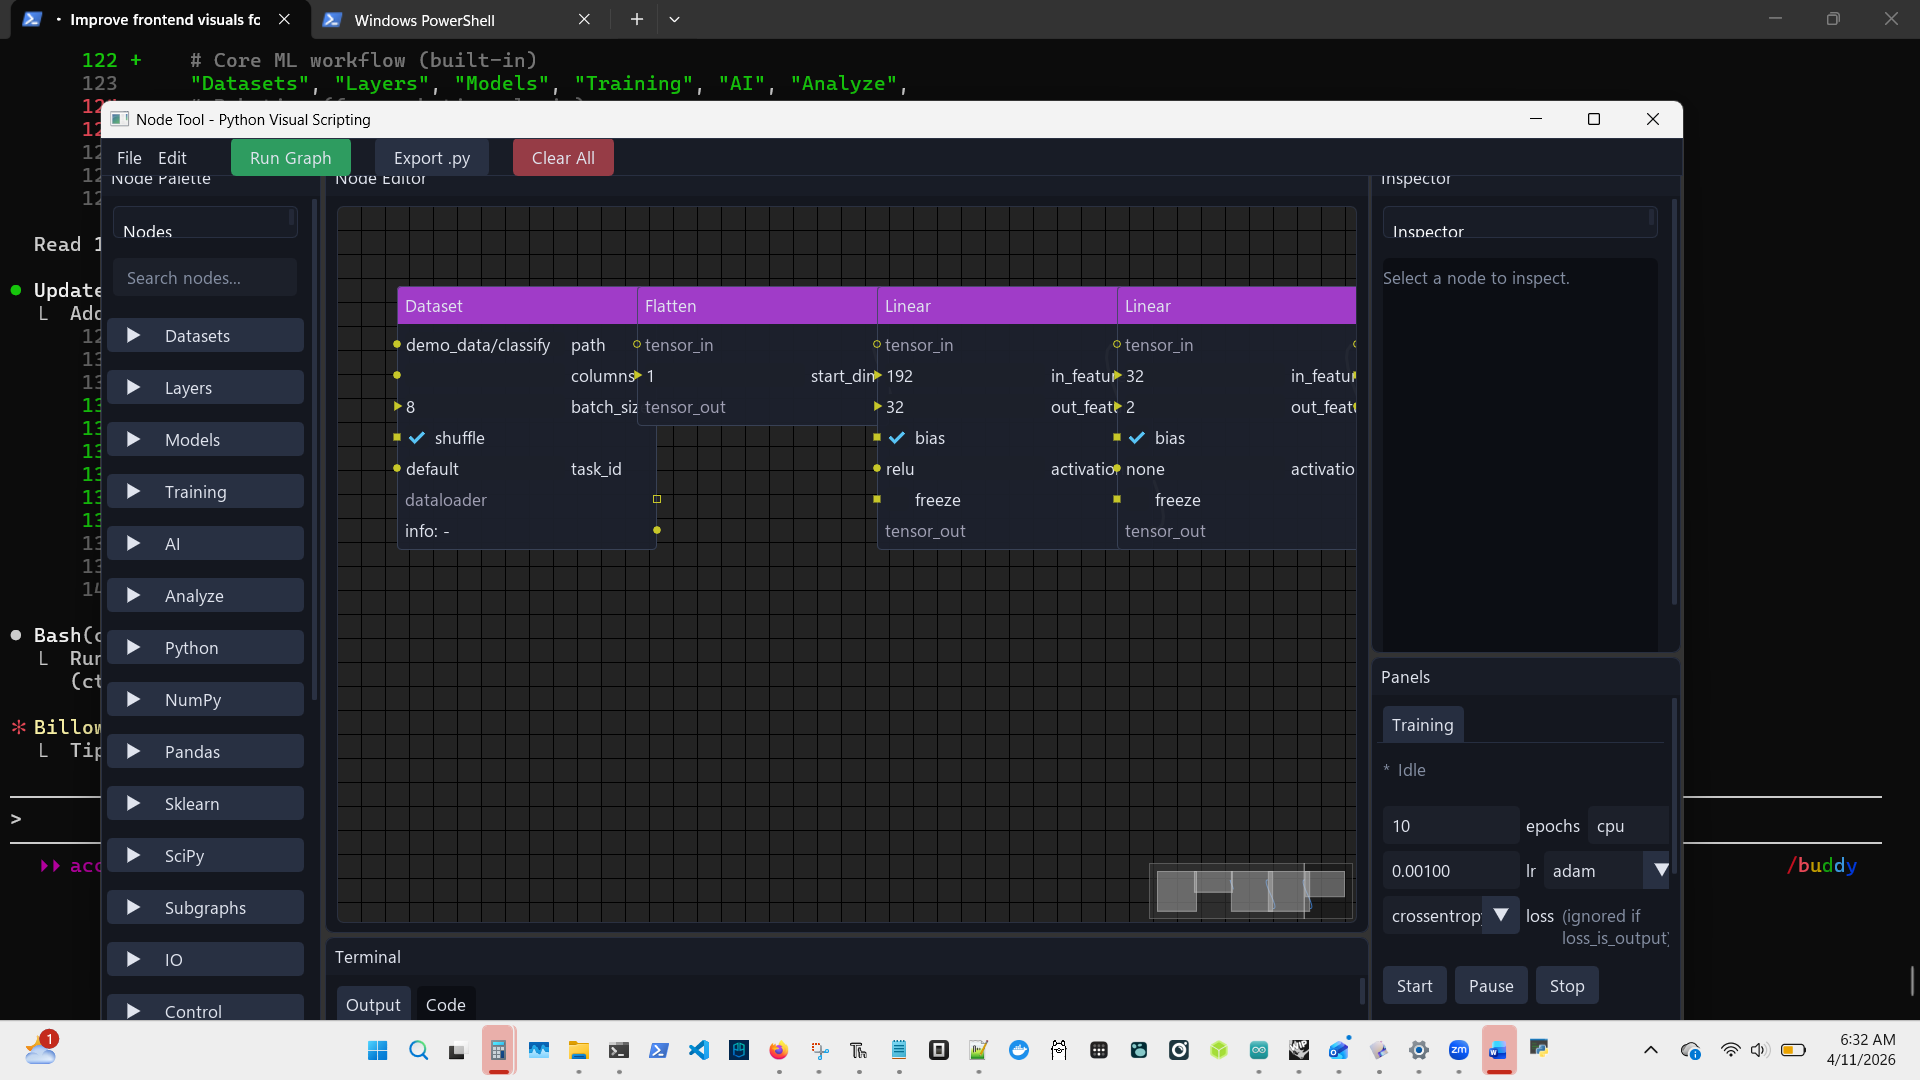
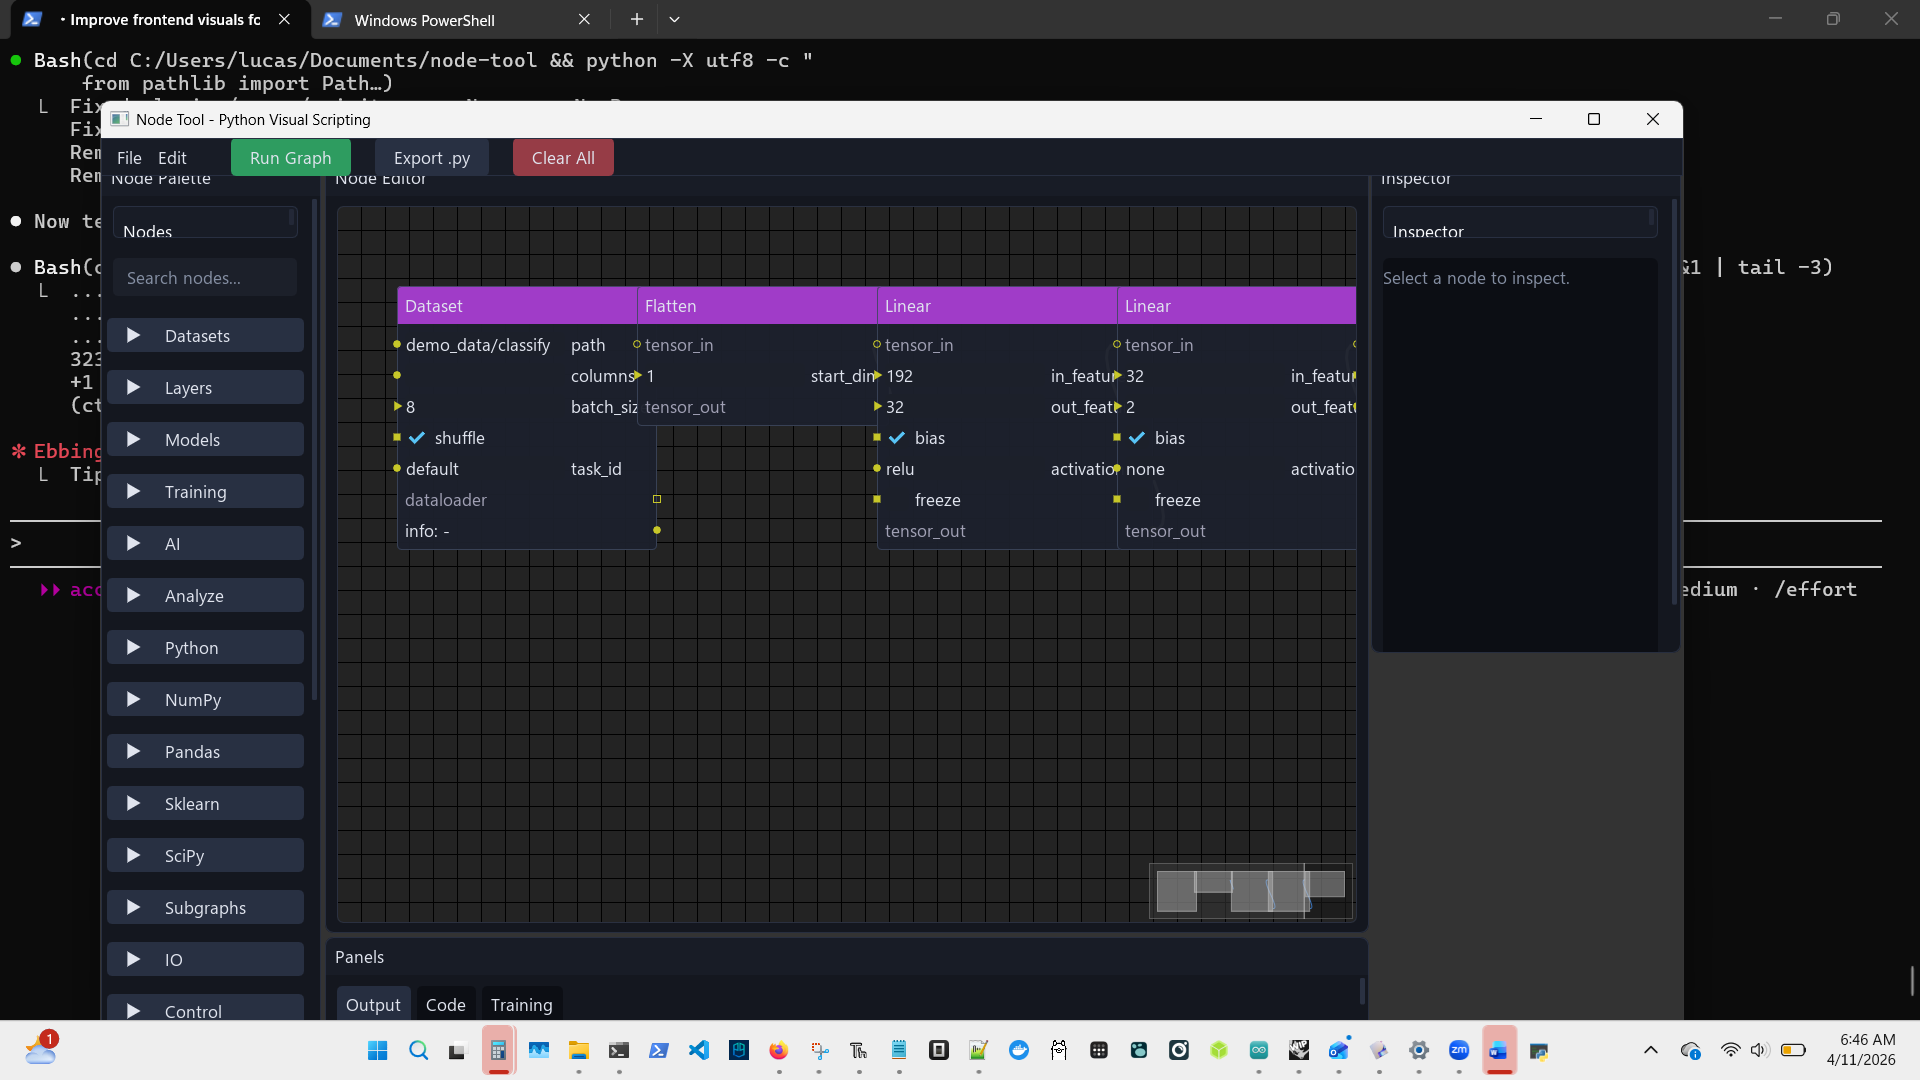
fix: layout restructure — training moves to bottom tab bar, inspector full height
Major layout cleanup addressing user feedback:

1. Training panel moved from cramped right sidebar to the wider bottom
   panel area as a tab alongside Output and Code. Horizontal layout uses
   the full width — epochs/lr/optim/device on one row, buttons + loss on
   the next, loss plot below.

2. Inspector now fills the full right column (was split with training).

3. Plugin panels register as tabs in the bottom panel bar — wider area,
   more room for domain-specific UI (sensor plots, simulation controls).

4. Fixed category name mismatches (Numpy->NumPy, Scipy->SciPy) that
   caused empty palette dropdowns.

5. Plugin categories auto-merge into CATEGORY_ORDER — robotics categories
   (Control, Sensors, Actuators, Signal) now appear in the palette.

diff --git a/gui/mixins/layout.py b/gui/mixins/layout.py
@@ -235,112 +235,40 @@ class LayoutMixin:
             ):
                 pass
 
-        # Inspector window — fills right column above training panel
-        training_h = 380
-        inspector_height = usable_h - training_h - 4
+        # Inspector window — full right column (no more training panel below)
         with dpg.window(
             label="Inspector", tag="InspectorWindow",
-            pos=[inspector_x, MENU_H], width=INSPECTOR_W, height=inspector_height,
+            pos=[inspector_x, MENU_H + 4], width=INSPECTOR_W, height=usable_h,
             no_close=True, no_collapse=True,
         ):
             _section_header("Inspector", self._section_header_theme)
             with dpg.child_window(tag="inspector_content", autosize_x=True,
-                                  height=inspector_height - 70, border=False):
+                                  height=usable_h - 70, border=False):
                 dpg.add_text("Select a node to inspect.", color=list(TEXT_DIM))
 
-        # Training panel window
-        training_y = inspector_height + MENU_H + 4
-        training_h = usable_h - inspector_height - 4
-        with dpg.window(
-            label="Panels", tag="TrainingWindow",
-            pos=[inspector_x, training_y], width=INSPECTOR_W, height=training_h,
-            no_close=True, no_collapse=True,
-        ):
-            dpg.add_tab_bar(tag="panel_tab_bar")
-
-        # Build the Training tab using parent= to avoid deep nesting
-        dpg.add_tab(label="Training", tag="panel_tab_training", parent="panel_tab_bar")
-        hw = (INSPECTOR_W - 36) // 2
-        P = "panel_tab_training"  # parent shorthand
-        with dpg.group(horizontal=True, parent=P):
-            dpg.add_text("*", tag="train_status_dot", color=list(TEXT_DIM))
-            dpg.add_text("Idle", tag="train_status_text", color=list(TEXT_DIM))
-        dpg.add_spacer(height=4, parent=P)
-        with dpg.group(horizontal=True, parent=P):
-            dpg.add_input_int(label="epochs", tag="train_epochs_input",
-                              default_value=10, width=hw, step=0, min_value=1)
-            dpg.add_combo(label="device", tag="train_device_combo",
-                          items=["cpu", "cuda", "cuda:0", "cuda:1"],
-                          default_value="cpu", width=hw)
-        with dpg.group(horizontal=True, parent=P):
-            dpg.add_input_float(label="lr", tag="train_lr_input",
-                                default_value=0.001, width=hw, step=0, format="%.5f")
-            dpg.add_combo(label="optim", tag="train_optimizer_combo",
-                          items=["adam", "adamw", "sgd", "rmsprop"],
-                          default_value="adam", width=hw)
-        with dpg.group(horizontal=True, parent=P):
-            dpg.add_combo(label="loss", tag="train_loss_combo",
-                          items=["crossentropy", "mse", "bce", "bcewithlogits", "l1"],
-                          default_value="crossentropy", width=hw)
-            dpg.add_text("(ignored if\nloss_is_output)", color=list(TEXT_DIM))
-        dpg.add_spacer(height=4, parent=P)
-        with dpg.group(horizontal=True, parent=P):
-            dpg.add_button(label=" Start ", tag="train_start_btn",
-                           callback=lambda: self._train_start())
-            dpg.add_button(label=" Pause ", tag="train_pause_btn",
-                           callback=lambda: self._train_pause_resume())
-            dpg.add_button(label=" Stop ",  tag="train_stop_btn",
-                           callback=lambda: self._train_stop())
-        dpg.add_spacer(height=4, parent=P)
-        dpg.add_button(label="Check Wiring", width=-1, parent=P,
-                       callback=lambda: self._train_check_wiring())
-        dpg.add_spacer(height=6, parent=P)
-        dpg.add_text("Epoch  0 / 0", tag="train_epoch_text", color=list(TEXT), parent=P)
-        dpg.add_text("Best loss  —", tag="train_loss_text",  color=list(TEXT), parent=P)
-        dpg.add_spacer(height=4, parent=P)
-        with dpg.plot(label="Loss", height=100, width=-1, tag="loss_plot", parent=P):
-            dpg.add_plot_legend()
-            dpg.add_plot_axis(dpg.mvXAxis, label="epoch", tag="loss_x_axis")
-            with dpg.plot_axis(dpg.mvYAxis, label="loss", tag="loss_y_axis"):
-                dpg.add_line_series([], [], label="train", tag="loss_series")
-                dpg.add_line_series([], [], label="val",   tag="val_loss_series")
-        dpg.add_spacer(height=4, parent=P)
-        dpg.add_button(label="Save Model", tag="save_model_btn", width=-1, parent=P,
-                       callback=lambda: self._save_model())
-
-        # Plugin-provided panel tabs
-        try:
-            from nodes import _plugin_ctx
-            if _plugin_ctx:
-                for plabel, pbuilder in _plugin_ctx.panels:
-                    tab_tag = dpg.add_tab(label=plabel, parent="panel_tab_bar")
-                    try:
-                        pbuilder(tab_tag, self)
-                    except Exception as exc:
-                        dpg.add_text(f"Error: {exc}", color=[220, 80, 80], parent=tab_tag)
-        except Exception:
-            pass
-
-        # Terminal / output window
+        # Bottom panel — Output, Code, Training, and plugin tabs all in one
+        # wider tab bar. Replaces the old cramped right-side training panel.
         term_y = editor_h + MENU_H + 4
         term_w = VIEWPORT_W - PALETTE_W - INSPECTOR_W - 8
+        tab_h = TERMINAL_H - 36
         with dpg.window(
-            label="Terminal", tag="TerminalWindow",
+            label="Panels", tag="TerminalWindow",
             pos=[PALETTE_W + 4, term_y], width=term_w, height=TERMINAL_H,
             no_close=True, no_collapse=True,
         ):
-            tab_content_h = TERMINAL_H - 36
             with dpg.tab_bar(tag="terminal_tab_bar"):
+                # ── Output tab ──────────────────────────────────────────
                 with dpg.tab(label="Output", tag="tab_output"):
                     with dpg.child_window(tag="terminal_scroll", autosize_x=True,
-                                          height=tab_content_h, border=False):
+                                          height=tab_h, border=False):
                         dpg.add_input_text(
                             tag="terminal_text", default_value="", multiline=True,
-                            readonly=True, width=-1, height=tab_content_h - 10,
+                            readonly=True, width=-1, height=tab_h - 10,
                         )
+                # ── Code tab ────────────────────────────────────────────
                 with dpg.tab(label="Code", tag="tab_code"):
                     with dpg.child_window(tag="code_scroll", autosize_x=True,
-                                          height=tab_content_h, border=False):
+                                          height=tab_h, border=False):
                         with dpg.group(horizontal=True):
                             dpg.add_button(label="Save .py",
                                            callback=lambda: self._export_script())
@@ -352,6 +280,65 @@ class LayoutMixin:
                             tag="code_text",
                             default_value="# Run the graph to generate code preview.",
                             multiline=True, readonly=True,
-                            width=term_w - 30, height=tab_content_h - 38,
+                            width=term_w - 30, height=tab_h - 38,
                             tab_input=True,
                         )
+                # ── Training tab (moved from cramped right panel) ───────
+                with dpg.tab(label="Training", tag="tab_training"):
+                    hw = (term_w - 60) // 4
+                    with dpg.group(horizontal=True):
+                        dpg.add_text("*", tag="train_status_dot", color=list(TEXT_DIM))
+                        dpg.add_text("Idle", tag="train_status_text", color=list(TEXT_DIM))
+                        dpg.add_spacer(width=20)
+                        dpg.add_input_int(label="epochs", tag="train_epochs_input",
+                                          default_value=10, width=hw, step=0, min_value=1)
+                        dpg.add_input_float(label="lr", tag="train_lr_input",
+                                            default_value=0.001, width=hw, step=0, format="%.5f")
+                        dpg.add_combo(label="optim", tag="train_optimizer_combo",
+                                      items=["adam", "adamw", "sgd", "rmsprop"],
+                                      default_value="adam", width=hw)
+                        dpg.add_combo(label="device", tag="train_device_combo",
+                                      items=["cpu", "cuda", "cuda:0", "cuda:1"],
+                                      default_value="cpu", width=80)
+                    with dpg.group(horizontal=True):
+                        dpg.add_button(label=" Start ", tag="train_start_btn",
+                                       callback=lambda: self._train_start())
+                        dpg.add_button(label=" Pause ", tag="train_pause_btn",
+                                       callback=lambda: self._train_pause_resume())
+                        dpg.add_button(label=" Stop ",  tag="train_stop_btn",
+                                       callback=lambda: self._train_stop())
+                        dpg.add_button(label="Check Wiring",
+                                       callback=lambda: self._train_check_wiring())
+                        dpg.add_spacer(width=20)
+                        dpg.add_combo(label="loss", tag="train_loss_combo",
+                                      items=["crossentropy", "mse", "bce",
+                                             "bcewithlogits", "l1"],
+                                      default_value="crossentropy", width=120)
+                        dpg.add_text("(ignored if loss_is_output)", color=list(TEXT_DIM))
+                        dpg.add_spacer(width=20)
+                        dpg.add_button(label="Save Model", tag="save_model_btn",
+                                       callback=lambda: self._save_model())
+                    dpg.add_spacer(height=4)
+                    with dpg.group(horizontal=True):
+                        dpg.add_text("Epoch  0 / 0", tag="train_epoch_text", color=list(TEXT))
+                        dpg.add_spacer(width=20)
+                        dpg.add_text("Best loss  —", tag="train_loss_text",  color=list(TEXT))
+                    with dpg.plot(label="Loss", height=tab_h - 70, width=-1, tag="loss_plot"):
+                        dpg.add_plot_legend()
+                        dpg.add_plot_axis(dpg.mvXAxis, label="epoch", tag="loss_x_axis")
+                        with dpg.plot_axis(dpg.mvYAxis, label="loss", tag="loss_y_axis"):
+                            dpg.add_line_series([], [], label="train", tag="loss_series")
+                            dpg.add_line_series([], [], label="val",   tag="val_loss_series")
+
+                # ── Plugin-provided tabs ────────────────────────────────
+                try:
+                    from nodes import _plugin_ctx
+                    if _plugin_ctx:
+                        for plabel, pbuilder in _plugin_ctx.panels:
+                            with dpg.tab(label=plabel):
+                                try:
+                                    pbuilder(dpg.last_item(), self)
+                                except Exception as exc:
+                                    dpg.add_text(f"Error: {exc}", color=[220, 80, 80])
+                except Exception:
+                    pass

diff --git a/plugins/numpy/__init__.py b/plugins/numpy/__init__.py
@@ -4,4 +4,4 @@ from core.plugins import PluginContext
 def register(ctx: PluginContext) -> None:
     import nodes.numpy as mod
     ctx.discover_nodes(mod)
-    ctx.add_categories(["Numpy"])
+    ctx.add_categories(["NumPy"])

diff --git a/plugins/scipy/__init__.py b/plugins/scipy/__init__.py
@@ -4,4 +4,4 @@ from core.plugins import PluginContext
 def register(ctx: PluginContext) -> None:
     import nodes.scipy as mod
     ctx.discover_nodes(mod)
-    ctx.add_categories(["Scipy"])
+    ctx.add_categories(["SciPy"])

diff --git a/plugins/sklearn/__init__.py b/plugins/sklearn/__init__.py
@@ -4,4 +4,3 @@ from core.plugins import PluginContext
 def register(ctx: PluginContext) -> None:
     import nodes.sklearn as mod
     ctx.discover_nodes(mod)
-    ctx.add_categories(["Sklearn"])

diff --git a/plugins/pandas/__init__.py b/plugins/pandas/__init__.py
@@ -4,4 +4,3 @@ from core.plugins import PluginContext
 def register(ctx: PluginContext) -> None:
     import nodes.pandas as mod
     ctx.discover_nodes(mod)
-    ctx.add_categories(["Pandas"])
